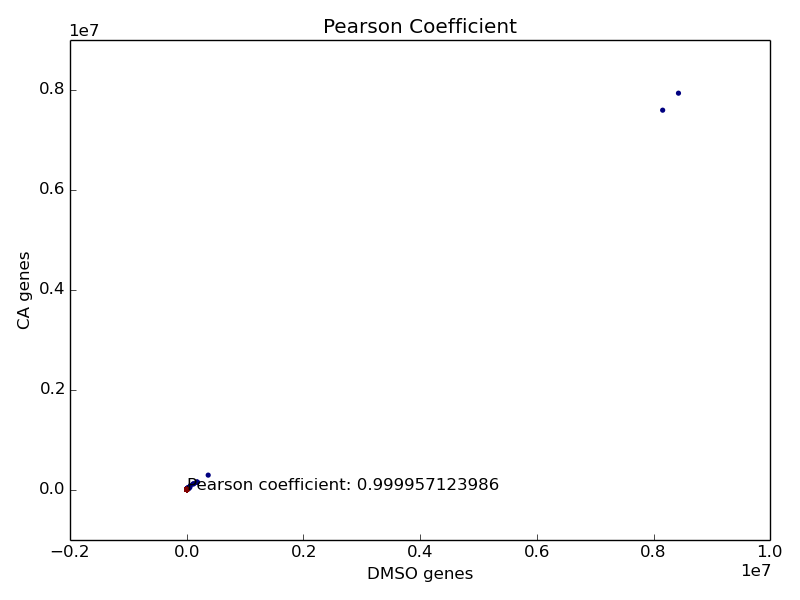
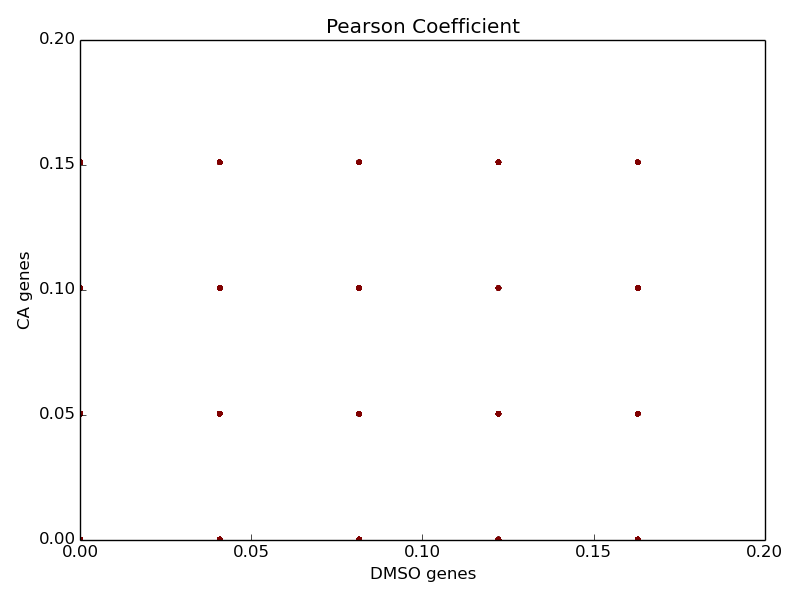
updates

diff --git a/src/master_writer.py b/src/master_writer.py
@@ -114,7 +114,8 @@ def run(DMSOgenes,DMSOTSS,DMSOEND,CAgenes,CATSS,CAEND,filedir,figuredir):
             if not ER > cutoff3 and not ER < -cutoff3:
                 ENDlist.append(ER)
     print "Genes: ",i
-    
+    print pX[0:10]
+    print pY[0:10]
     meanX = np.mean(pX)
     meanY = np.mean(pY)
     num = 0.0
@@ -352,8 +353,8 @@ def run(DMSOgenes,DMSOTSS,DMSOEND,CAgenes,CATSS,CAEND,filedir,figuredir):
     ax.set_title('Pearson Coefficient')
     ax.set_xlabel('DMSO genes')
     ax.set_ylabel('CA genes')
-    ax.set_xlim([0, .2])
-    ax.set_ylim([0, .2])
+    ax.set_xlim([0, .1])
+    ax.set_ylim([0, .1])
     ax.text(3,8, "Pearson coefficient: " + str(pearsons))
     plt.savefig(figuredir + '/Pearson.png')
     
